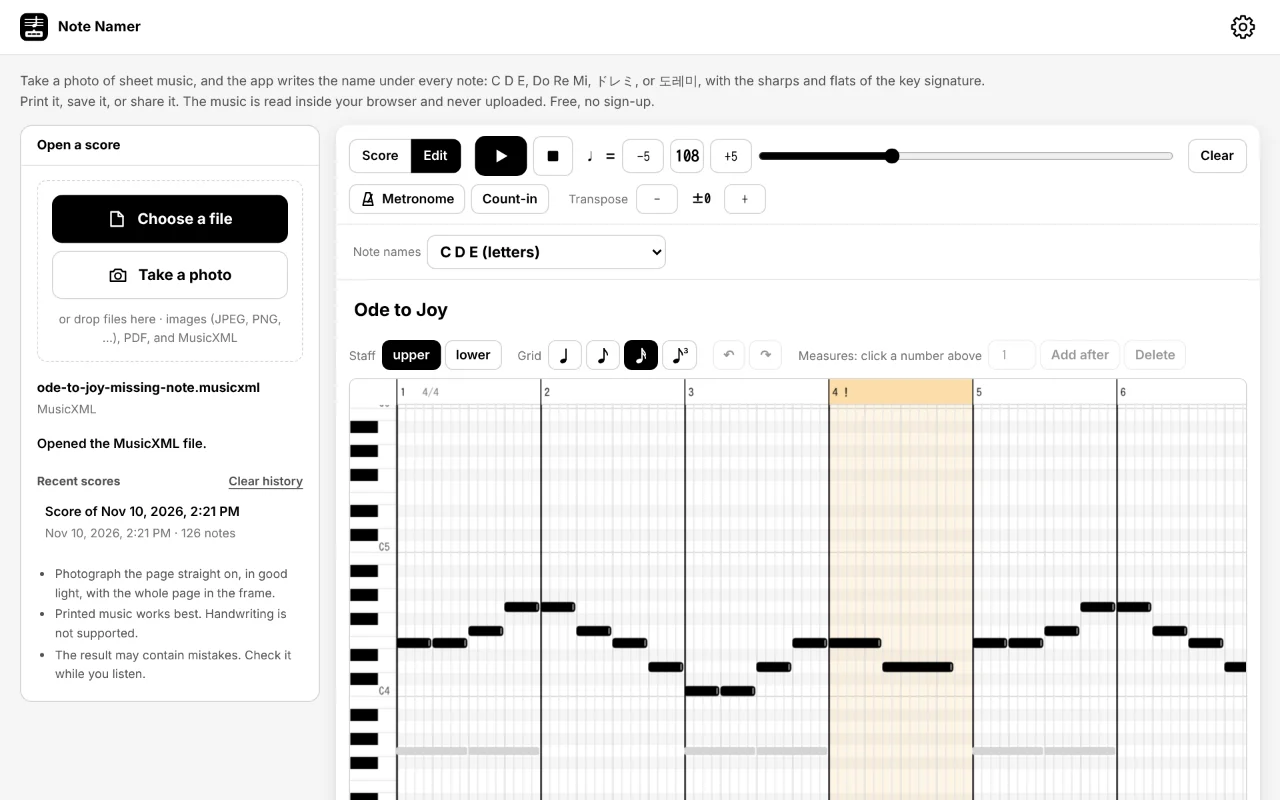
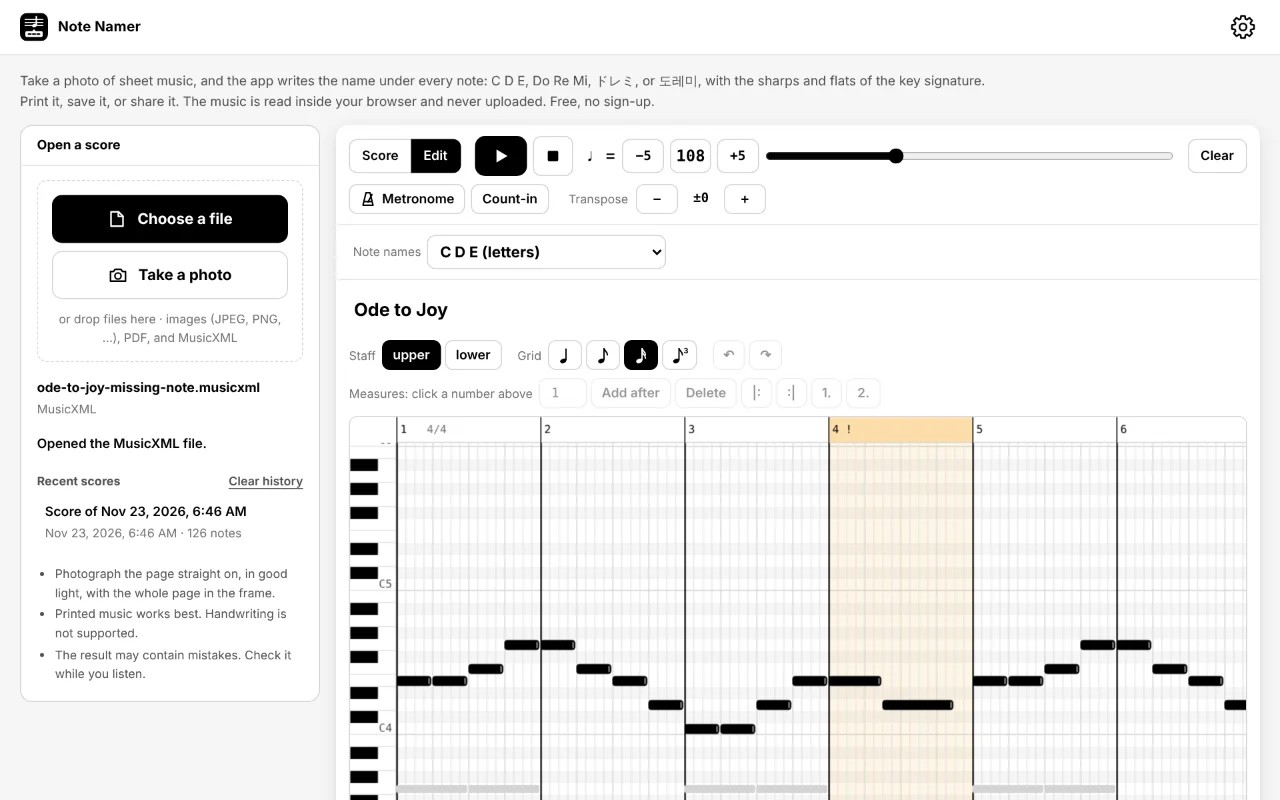
編集画面で繰り返し記号と 1番／2番かっこを付けられるように (#12)
* 繰り返し記号・1番／2番かっこを正しくたどる

- 読み取り結果の繰り返し記号を直す（fixRepeats）。homr 0.7.0 は始まりの |: を右の小節線に
  書くため :| で曲の先頭に戻っていた。:| の直後に 1番かっこの終わりだけの空の小節ができる
  （大譜表では上下の譜表で小節がずれる）のを消し、1番／2番かっこの範囲と番号を書き直す。
- 小節の一覧を繰り返しを展開した弾く順で作る（メトロノーム・カウントイン・ループが
  繰り返しのある曲でずれていた）。カーソルは繰り返しの飛び先へ滑らせずに移る。

Claude-Session: https://claude.ai/code/session_01FBcjAfogz4PzKhP6gVseSj

* 編集画面で繰り返し記号と 1番／2番かっこを付けられるように

SheetMusicPlayer と同じ変更の移植。homr は 1番／2番かっこをよく読み落とし、
繰り返しのあとも 1番かっこを弾いていた（写真の楽譜で確認）。推測はせず、
- 編集画面で小節番号を選んで |:・:|・1.・2. を付け外しできるようにする
- 読み取り結果に繰り返し記号があるときは、かっこを確かめるよう案内する
- 記事（fix-errors）と編集画面の写真を直す

Claude-Session: https://claude.ai/code/session_01FBcjAfogz4PzKhP6gVseSj

---------

diff --git a/public/notenamer/ja/index.html b/public/notenamer/ja/index.html
@@ -540,7 +540,7 @@
         <li><b>読み取りを待つ</b> – 初回は読み取りエンジン（約130MB）をダウンロードします。読み取りには、端末の性能によって1ページ10秒〜1分ほどかかります。</li>
         <li><b>音名</b> – すべての音符の下に音名を書きます。調号や臨時記号の ♯・♭ も反映します。楽譜の上で、書き方（ドレミ・C D E・Do Re Mi・도레미・ドイツ式・До Ре Ми、または移動ド・数字譜・Sa Re Ga）を選べます。和音は上の音から順に縦に並べ、タイでつながった後ろの音には書きません。</li>
         <li><b>聞いて確かめる</b> – ▶ を押すと、青いカーソルが五線の上を進みながら音が鳴ります。❚❚ で一時停止、■ で止めて最初に戻ります。音符をクリックするとカーソルがそこに移ります。テンポは −5／+5、数字、スライダーで変えられます。</li>
-        <li><b>間違いを直す</b> – 「編集」に切り替えると、音符が四角で表示されます。上下にドラッグで音の高さ、左右で位置、右端をドラッグで長さを変え、空いている所をクリックで追加、右クリックで削除できます。「楽譜」に戻ると、直した内容で五線譜と音名が描き直されます。</li>
+        <li><b>間違いを直す</b> – 「編集」に切り替えると、音符が四角で表示されます。上下にドラッグで音の高さ、左右で位置、右端をドラッグで長さを変え、空いている所をクリックで追加、右クリックで削除できます。小節番号をクリックすると、小節の追加・削除と、繰り返し記号・1番／2番かっこの設定もできます。「楽譜」に戻ると、直した内容で五線譜と音名が描き直されます。</li>
         <li><b>メトロノーム・カウントイン・移調</b> – テンポの下のボタンで、メトロノームとカウントイン、半音ずつの移調ができます。音名も移調した高さで書きます。</li>
         <li><b>印刷・保存・共有</b> – 楽譜の下の「印刷」（A4 のページ）、「画像を保存」（ページごとの PNG）、「共有」（スマホの共有メニューで画像を送る）。音名入りの MusicXML も保存できます。各ページの下には小さく「Note Namer で作成」と入ります（同じ場所のチェックで外せます）。最近開いた 10 曲は「最近の楽譜」に残ります。</li></ol>
       <p class="help-more" data-i18n-html="help.more">詳しくは：<a href="/notenamer/ja/guide/" target="_blank" rel="noopener">画面つきの使い方ガイド</a>・<a href="/notenamer/ja/photo-tips/" target="_blank" rel="noopener">撮り方のコツ</a>・<a href="/notenamer/ja/fix-errors/" target="_blank" rel="noopener">読み取りミスの直し方</a>・<a href="/notenamer/ja/faq/" target="_blank" rel="noopener">よくある質問</a></p>
@@ -655,7 +655,7 @@
           "mode.score": "Score",
           "mode.edit": "Edit",
           "ed.area": "Note editor. Drag a note to move it, drag its right edge to change its length.",
-          "ed.hint": "<b>Drag</b> a note to move it (up/down: pitch, left/right: timing) · drag its <b>right edge</b> to change the length · <b>click</b> an empty spot to add a note · <b>right-click</b> or <b>Delete</b> to remove · <b>drag</b> on empty space to select several · <b>↑↓</b> pitch (Shift: octave) · <b>←→</b> move · <b>Ctrl+Z</b> undo · <b>wheel</b> scroll (Shift: sideways), <b>Ctrl+wheel</b> or <b>+ −</b> zoom. On a touch screen: <b>drag</b> an empty spot to scroll, <b>pinch</b> to zoom, <b>hold</b> then drag to select several. Tap a measure number to add or delete measures (tap anywhere else to deselect it). Measures marked <b>!</b> did not add up when read; check them first.",
+          "ed.hint": "<b>Drag</b> a note to move it (up/down: pitch, left/right: timing) · drag its <b>right edge</b> to change the length · <b>click</b> an empty spot to add a note · <b>right-click</b> or <b>Delete</b> to remove · <b>drag</b> on empty space to select several · <b>↑↓</b> pitch (Shift: octave) · <b>←→</b> move · <b>Ctrl+Z</b> undo · <b>wheel</b> scroll (Shift: sideways), <b>Ctrl+wheel</b> or <b>+ −</b> zoom. On a touch screen: <b>drag</b> an empty spot to scroll, <b>pinch</b> to zoom, <b>hold</b> then drag to select several. Tap a measure number to add or delete measures, or to set repeat signs (|: :|) and 1st / 2nd endings (tap anywhere else to deselect it). Measures marked <b>!</b> did not add up when read; check them first.",
           "ed.track": "Staff",
           "ed.grid": "Grid",
           "ed.grid.24": "Quarter notes",
@@ -670,6 +670,10 @@
           "ed.measCount": "Number of measures to add",
           "ed.measAdd": "Add after",
           "ed.measDel": "Delete",
+          "ed.repStart": "Start repeat (|:)",
+          "ed.repEnd": "End repeat (:|)",
+          "ed.ending1": "1st ending",
+          "ed.ending2": "2nd ending",
           "track.part": "Part {n}",
           "track.upper": "upper",
           "track.lower": "lower",
@@ -702,6 +706,7 @@
           "err.pdf": "This PDF cannot be opened. It may be damaged or protected with a password.",
           "err.nostaff": "No staves or notes were found. Use a clear photo or scan of printed sheet music, with the whole page in the frame.",
           "err.nostaff.page": "No staves were found on page {i}, so it was skipped.",
+          "warn.repeats": "The score has repeat signs. 1st and 2nd endings are often missed when reading: if a repeat plays the wrong measures, set them in “Edit” (tap a measure number).",
           "err.unsupported": "This browser cannot run the reading engine. Use the latest Chrome or Edge on a computer, the latest Chrome on Android, or Safari on an iPhone updated to iOS 27.2 or later. (Firefox may work once updated to the latest version.)",
           "err.download": "The reading engine could not be downloaded. Check your connection and try again.",
           "err.memory": "The browser ran out of memory. Close other tabs, or try a smaller image or fewer pages. ({msg})",
@@ -812,7 +817,7 @@
           "mode.score": "楽譜",
           "mode.edit": "編集",
           "ed.area": "音符の編集。音符をドラッグで移動、右端をドラッグで長さを変更。",
-          "ed.hint": "音符を<b>ドラッグ</b>で移動（上下で音の高さ、左右でタイミング）・<b>右端をドラッグ</b>で長さ・空いている所を<b>クリック</b>で追加・<b>右クリック</b>か <b>Delete</b> で削除・空いている所を<b>ドラッグ</b>でまとめて選択・<b>↑↓</b> 音の高さ（Shift でオクターブ）・<b>←→</b> 移動・<b>Ctrl+Z</b> 元に戻す・<b>ホイール</b>でスクロール（Shift で横）、<b>Ctrl+ホイール</b>か <b>+ −</b> で拡大・縮小。タッチ操作では、空いている所を<b>ドラッグ</b>でスクロール、<b>ピンチ</b>で拡大・縮小、<b>長押し</b>してからドラッグでまとめて選択。上の小節番号をタップすると、小節の追加・削除ができます（ほかの所をタップすると選択を外します）。<b>!</b> の付いた小節は、読み取ったときに拍の合計が合わなかった小節です。先に確かめてください。",
+          "ed.hint": "音符を<b>ドラッグ</b>で移動（上下で音の高さ、左右でタイミング）・<b>右端をドラッグ</b>で長さ・空いている所を<b>クリック</b>で追加・<b>右クリック</b>か <b>Delete</b> で削除・空いている所を<b>ドラッグ</b>でまとめて選択・<b>↑↓</b> 音の高さ（Shift でオクターブ）・<b>←→</b> 移動・<b>Ctrl+Z</b> 元に戻す・<b>ホイール</b>でスクロール（Shift で横）、<b>Ctrl+ホイール</b>か <b>+ −</b> で拡大・縮小。タッチ操作では、空いている所を<b>ドラッグ</b>でスクロール、<b>ピンチ</b>で拡大・縮小、<b>長押し</b>してからドラッグでまとめて選択。上の小節番号をタップすると、小節の追加・削除と、繰り返し記号（|: :|）・1番／2番かっこの設定ができます（ほかの所をタップすると選択を外します）。<b>!</b> の付いた小節は、読み取ったときに拍の合計が合わなかった小節です。先に確かめてください。",
           "ed.track": "段",
           "ed.grid": "マス目",
           "ed.grid.24": "4分音符",
@@ -827,6 +832,10 @@
           "ed.measCount": "追加する小節の数",
           "ed.measAdd": "後ろに追加",
           "ed.measDel": "削除",
+          "ed.repStart": "繰り返しの始まり（|:）",
+          "ed.repEnd": "繰り返しの終わり（:|）",
+          "ed.ending1": "1番かっこ",
+          "ed.ending2": "2番かっこ",
           "track.part": "パート{n}",
           "track.upper": "上段",
           "track.lower": "下段",
@@ -859,6 +868,7 @@
           "err.pdf": "このPDFを開けません。壊れているか、パスワードで保護されている可能性があります。",
           "err.nostaff": "五線や音符が見つかりませんでした。印刷された楽譜を、ページ全体が入るように、はっきり撮った写真やスキャンでお試しください。",
           "err.nostaff.page": "{i}ページ目には五線が見つからなかったので、飛ばしました。",
+          "warn.repeats": "繰り返し記号があります。1番・2番かっこは読み取れないことが多いので、繰り返しで違う小節が鳴るときは「編集」で付けてください（小節番号をタップ）。",
           "err.unsupported": "このブラウザでは読み取りエンジンを動かせません。PCの最新のChromeかEdge、Androidの最新のChrome、またはiOS 27.2以降に更新したiPhoneのSafariでお試しください。（Firefoxは、最新版に更新すると動く場合があります）",
           "err.download": "読み取りエンジンをダウンロードできませんでした。接続を確認して、もう一度お試しください。",
           "err.memory": "ブラウザのメモリが足りなくなりました。ほかのタブを閉じるか、小さい画像やページ数の少ないファイルでお試しください。（{msg}）",
@@ -892,7 +902,7 @@
           "foot.meta": "<span>Note Namer · © 2026 ktkwmr</span>\n<a href=\"/notenamer/ja/privacy/\" target=\"_blank\" rel=\"noopener\">プライバシーポリシー</a>\n<a href=\"/notenamer/ja/about/\" target=\"_blank\" rel=\"noopener\">運営者情報</a>\n<a href=\"https://github.com/ktkwmr/NoteNamer\" target=\"_blank\" rel=\"noopener\">GitHub のソースコード</a>\n<a href=\"https://github.com/ktkwmr/NoteNamer/issues\" target=\"_blank\" rel=\"noopener\">ご意見・ご質問</a>\n<a href=\"https://ktkwmr.com/ja/\" target=\"_blank\" rel=\"noopener\">ktkwmr のほかのアプリ</a>",
           "foot.guidesTitle": "ガイド",
           "foot.guides": "<li><a href=\"/notenamer/ja/guide/\" target=\"_blank\" rel=\"noopener\">使い方ガイド</a></li>\n<li><a href=\"/notenamer/ja/note-name-chart/\" target=\"_blank\" rel=\"noopener\">音名の対応表</a></li>\n<li><a href=\"/notenamer/ja/reading-notes/\" target=\"_blank\" rel=\"noopener\">五線譜の音の読み方</a></li>\n<li><a href=\"/notenamer/ja/sharps-and-flats/\" target=\"_blank\" rel=\"noopener\">♯・♭と調号の読み方</a></li>\n<li><a href=\"/notenamer/ja/faq/\" target=\"_blank\" rel=\"noopener\">よくある質問</a></li>\n<li><a href=\"/notenamer/ja/photo-tips/\" target=\"_blank\" rel=\"noopener\">楽譜の撮り方のコツ</a></li>\n<li><a href=\"/notenamer/ja/fix-errors/\" target=\"_blank\" rel=\"noopener\">読み取りミスの直し方</a></li>",
-          "help.body": "<li><b>楽譜を開く</b> – 写真を撮るか、画像やPDFを選んで（左のパネルにドロップしても可）「楽譜を読み取る」を押します。ファイルは12個まで追加でき、並んだ順に1つの楽譜として読み取ります（ハンドルをドラッグすると順番を変えられます）。MusicXML はすぐに開きます。楽譜を開いていないときは、見本（歓喜の歌）を表示します。</li>\n        <li><b>読み取りを待つ</b> – 初回は読み取りエンジン（約130MB）をダウンロードします。読み取りには、端末の性能によって1ページ10秒〜1分ほどかかります。</li>\n        <li><b>音名</b> – すべての音符の下に音名を書きます。調号や臨時記号の ♯・♭ も反映します。楽譜の上で、書き方（ドレミ・C D E・Do Re Mi・도레미・ドイツ式・До Ре Ми、または移動ド・数字譜・Sa Re Ga）を選べます。和音は上の音から順に縦に並べ、タイでつながった後ろの音には書きません。</li>\n        <li><b>聞いて確かめる</b> – ▶ を押すと、青いカーソルが五線の上を進みながら音が鳴ります。❚❚ で一時停止、■ で止めて最初に戻ります。音符をクリックするとカーソルがそこに移ります。テンポは −5／+5、数字、スライダーで変えられます。</li>\n        <li><b>間違いを直す</b> – 「編集」に切り替えると、音符が四角で表示されます。上下にドラッグで音の高さ、左右で位置、右端をドラッグで長さを変え、空いている所をクリックで追加、右クリックで削除できます。「楽譜」に戻ると、直した内容で五線譜と音名が描き直されます。</li>\n        <li><b>メトロノーム・カウントイン・移調</b> – テンポの下のボタンで、メトロノームとカウントイン、半音ずつの移調ができます。音名も移調した高さで書きます。</li>\n        <li><b>印刷・保存・共有</b> – 楽譜の下の「印刷」（A4 のページ）、「画像を保存」（ページごとの PNG）、「共有」（スマホの共有メニューで画像を送る）。音名入りの MusicXML も保存できます。各ページの下には小さく「Note Namer で作成」と入ります（同じ場所のチェックで外せます）。最近開いた 10 曲は「最近の楽譜」に残ります。</li>",
+          "help.body": "<li><b>楽譜を開く</b> – 写真を撮るか、画像やPDFを選んで（左のパネルにドロップしても可）「楽譜を読み取る」を押します。ファイルは12個まで追加でき、並んだ順に1つの楽譜として読み取ります（ハンドルをドラッグすると順番を変えられます）。MusicXML はすぐに開きます。楽譜を開いていないときは、見本（歓喜の歌）を表示します。</li>\n        <li><b>読み取りを待つ</b> – 初回は読み取りエンジン（約130MB）をダウンロードします。読み取りには、端末の性能によって1ページ10秒〜1分ほどかかります。</li>\n        <li><b>音名</b> – すべての音符の下に音名を書きます。調号や臨時記号の ♯・♭ も反映します。楽譜の上で、書き方（ドレミ・C D E・Do Re Mi・도레미・ドイツ式・До Ре Ми、または移動ド・数字譜・Sa Re Ga）を選べます。和音は上の音から順に縦に並べ、タイでつながった後ろの音には書きません。</li>\n        <li><b>聞いて確かめる</b> – ▶ を押すと、青いカーソルが五線の上を進みながら音が鳴ります。❚❚ で一時停止、■ で止めて最初に戻ります。音符をクリックするとカーソルがそこに移ります。テンポは −5／+5、数字、スライダーで変えられます。</li>\n        <li><b>間違いを直す</b> – 「編集」に切り替えると、音符が四角で表示されます。上下にドラッグで音の高さ、左右で位置、右端をドラッグで長さを変え、空いている所をクリックで追加、右クリックで削除できます。小節番号をクリックすると、小節の追加・削除と、繰り返し記号・1番／2番かっこの設定もできます。「楽譜」に戻ると、直した内容で五線譜と音名が描き直されます。</li>\n        <li><b>メトロノーム・カウントイン・移調</b> – テンポの下のボタンで、メトロノームとカウントイン、半音ずつの移調ができます。音名も移調した高さで書きます。</li>\n        <li><b>印刷・保存・共有</b> – 楽譜の下の「印刷」（A4 のページ）、「画像を保存」（ページごとの PNG）、「共有」（スマホの共有メニューで画像を送る）。音名入りの MusicXML も保存できます。各ページの下には小さく「Note Namer で作成」と入ります（同じ場所のチェックで外せます）。最近開いた 10 曲は「最近の楽譜」に残ります。</li>",
           "help.more": "詳しくは：<a href=\"/notenamer/ja/guide/\" target=\"_blank\" rel=\"noopener\">画面つきの使い方ガイド</a>・<a href=\"/notenamer/ja/photo-tips/\" target=\"_blank\" rel=\"noopener\">撮り方のコツ</a>・<a href=\"/notenamer/ja/fix-errors/\" target=\"_blank\" rel=\"noopener\">読み取りミスの直し方</a>・<a href=\"/notenamer/ja/faq/\" target=\"_blank\" rel=\"noopener\">よくある質問</a>",
           "privacy.body": "<li><b>楽譜は端末の外に出ません</b> – 開いた写真・画像・PDFは、ブラウザの中だけで読み取り、サーバーに送ることはありません。カメラで撮った写真も保存しません。アカウント登録・Cookie・広告はありません。</li>\n        <li><b>ブラウザに保存するデータ</b> – もう一度開けるよう、最近開いた楽譜（読み取った音符のMusicXML）を最大10曲まで、タイトル・ファイル名・テンポ・移調の設定と一緒にブラウザ内に保存します。「履歴を消去」で消せます。オフラインで使えるよう、アプリ本体と読み取りエンジンも保存します。ブラウザの設定でこのサイトのデータを削除すると消えます。</li>\n        <li><b>サーバーのログと閲覧数</b> – 本サイトは Cloudflare で配信しています。運用とセキュリティのため、一般的なアクセスログ（IP アドレス・日時・アクセスしたページやファイルなど）が記録されます。Cloudflare Web Analytics で、Cookie を使わずにページの閲覧数（ページの URL・参照元・ブラウザの情報・表示速度）を集計しています。</li>\n        <li><b>お問い合わせ</b> – ご質問・ご意見は <a href=\"https://github.com/ktkwmr/NoteNamer/issues\" target=\"_blank\" rel=\"noopener\">GitHub の Issues</a> へ。</li>\n        <li><b>詳しくは</b> – <a href=\"/notenamer/ja/privacy/\" target=\"_blank\" rel=\"noopener\">プライバシーポリシー</a>と<a href=\"/notenamer/ja/about/\" target=\"_blank\" rel=\"noopener\">運営者情報</a>をご覧ください。</li>",
           "about.license": "© 2026 ktkwmr · <a href=\"https://github.com/ktkwmr/NoteNamer/blob/main/LICENSE\" target=\"_blank\" rel=\"noopener\">GNU AGPL v3</a>（使用している楽譜認識 homr と同じライセンス）· <a href=\"/notenamer/ja/about/\" target=\"_blank\" rel=\"noopener\">運営者情報</a>",
@@ -1779,7 +1789,10 @@
           saveState();
           const secs = Math.round((performance.now() - t0) / 1000);
           showStatus(n > 1 ? t("st.done.pages", { n: xmls.length, s: secs }) : t("st.done", { s: secs }), { bar: false });
-          if (skipped.length) { $("pageWarn").textContent = skipped.map((i) => t("err.nostaff.page", { i: i })).join(" "); $("pageWarn").hidden = false; }
+          // Repeats: the reader often misses the 1st / 2nd endings, which then play every time
+          const warns = skipped.map((i) => t("err.nostaff.page", { i: i }));
+          if (/<repeat /.test(xml)) warns.push(t("warn.repeats"));
+          if (warns.length) { $("pageWarn").textContent = warns.join(" "); $("pageWarn").hidden = false; }
           // Read: the next files chosen make a new score
           done = true;
           clearQueue();

diff --git a/public/notenamer/index.html b/public/notenamer/index.html
@@ -545,7 +545,7 @@
         <li><b>Wait for the reading</b> – The first time, the reading engine is downloaded (about 130 MB). Reading takes from about ten seconds to a minute per page, depending on your computer.</li>
         <li><b>Play</b> – Press ▶. A blue cursor moves along the staff with the music; ❚❚ pauses, and ■ stops and goes back to the beginning. Click a note to move the cursor there; playing starts from it.</li>
         <li><b>Tempo</b> – The tempo starts at the marking found on the page (♩ = 120 when there is none). Change it with −5 / +5, the number, or the slider, even while playing.</li>
-        <li><b>Fix mistakes</b> – Switch to “Edit”. Each note is a box: drag it up or down to change the pitch, sideways to move it, drag its right edge to change the length, click an empty spot to add a note, and right-click to delete. Click a measure number to add or delete measures. Back in “Score”, the staff is redrawn with your changes.</li>
+        <li><b>Fix mistakes</b> – Switch to “Edit”. Each note is a box: drag it up or down to change the pitch, sideways to move it, drag its right edge to change the length, click an empty spot to add a note, and right-click to delete. Click a measure number to add or delete measures, or to set repeat signs and 1st / 2nd endings. Back in “Score”, the staff is redrawn with your changes.</li>
         <li><b>Metronome, count-in, transpose</b> – The buttons under the tempo add a metronome or a count-in, and transpose by semitones. The names follow the transposition.</li>
         <li><b>Print, save, share</b> – Under the score: Print (A4 pages), Save image (a PNG for each page), and Share (the images, through your phone's share menu). You can also save a MusicXML file with the names. A small “Made with Note Namer” line goes under each page unless you turn it off there. The last 10 scores are kept under “Recent scores”.</li>
       </ol>
@@ -663,7 +663,7 @@
           "mode.score": "Score",
           "mode.edit": "Edit",
           "ed.area": "Note editor. Drag a note to move it, drag its right edge to change its length.",
-          "ed.hint": "<b>Drag</b> a note to move it (up/down: pitch, left/right: timing) · drag its <b>right edge</b> to change the length · <b>click</b> an empty spot to add a note · <b>right-click</b> or <b>Delete</b> to remove · <b>drag</b> on empty space to select several · <b>↑↓</b> pitch (Shift: octave) · <b>←→</b> move · <b>Ctrl+Z</b> undo · <b>wheel</b> scroll (Shift: sideways), <b>Ctrl+wheel</b> or <b>+ −</b> zoom. On a touch screen: <b>drag</b> an empty spot to scroll, <b>pinch</b> to zoom, <b>hold</b> then drag to select several. Tap a measure number to add or delete measures (tap anywhere else to deselect it). Measures marked <b>!</b> did not add up when read; check them first.",
+          "ed.hint": "<b>Drag</b> a note to move it (up/down: pitch, left/right: timing) · drag its <b>right edge</b> to change the length · <b>click</b> an empty spot to add a note · <b>right-click</b> or <b>Delete</b> to remove · <b>drag</b> on empty space to select several · <b>↑↓</b> pitch (Shift: octave) · <b>←→</b> move · <b>Ctrl+Z</b> undo · <b>wheel</b> scroll (Shift: sideways), <b>Ctrl+wheel</b> or <b>+ −</b> zoom. On a touch screen: <b>drag</b> an empty spot to scroll, <b>pinch</b> to zoom, <b>hold</b> then drag to select several. Tap a measure number to add or delete measures, or to set repeat signs (|: :|) and 1st / 2nd endings (tap anywhere else to deselect it). Measures marked <b>!</b> did not add up when read; check them first.",
           "ed.track": "Staff",
           "ed.grid": "Grid",
           "ed.grid.24": "Quarter notes",
@@ -678,6 +678,10 @@
           "ed.measCount": "Number of measures to add",
           "ed.measAdd": "Add after",
           "ed.measDel": "Delete",
+          "ed.repStart": "Start repeat (|:)",
+          "ed.repEnd": "End repeat (:|)",
+          "ed.ending1": "1st ending",
+          "ed.ending2": "2nd ending",
           "track.part": "Part {n}",
           "track.upper": "upper",
           "track.lower": "lower",
@@ -710,6 +714,7 @@
           "err.pdf": "This PDF cannot be opened. It may be damaged or protected with a password.",
           "err.nostaff": "No staves or notes were found. Use a clear photo or scan of printed sheet music, with the whole page in the frame.",
           "err.nostaff.page": "No staves were found on page {i}, so it was skipped.",
+          "warn.repeats": "The score has repeat signs. 1st and 2nd endings are often missed when reading: if a repeat plays the wrong measures, set them in “Edit” (tap a measure number).",
           "err.unsupported": "This browser cannot run the reading engine. Use the latest Chrome or Edge on a computer, the latest Chrome on Android, or Safari on an iPhone updated to iOS 27.2 or later. (Firefox may work once updated to the latest version.)",
           "err.download": "The reading engine could not be downloaded. Check your connection and try again.",
           "err.memory": "The browser ran out of memory. Close other tabs, or try a smaller image or fewer pages. ({msg})",
@@ -820,7 +825,7 @@
           "mode.score": "楽譜",
           "mode.edit": "編集",
           "ed.area": "音符の編集。音符をドラッグで移動、右端をドラッグで長さを変更。",
-          "ed.hint": "音符を<b>ドラッグ</b>で移動（上下で音の高さ、左右でタイミング）・<b>右端をドラッグ</b>で長さ・空いている所を<b>クリック</b>で追加・<b>右クリック</b>か <b>Delete</b> で削除・空いている所を<b>ドラッグ</b>でまとめて選択・<b>↑↓</b> 音の高さ（Shift でオクターブ）・<b>←→</b> 移動・<b>Ctrl+Z</b> 元に戻す・<b>ホイール</b>でスクロール（Shift で横）、<b>Ctrl+ホイール</b>か <b>+ −</b> で拡大・縮小。タッチ操作では、空いている所を<b>ドラッグ</b>でスクロール、<b>ピンチ</b>で拡大・縮小、<b>長押し</b>してからドラッグでまとめて選択。上の小節番号をタップすると、小節の追加・削除ができます（ほかの所をタップすると選択を外します）。<b>!</b> の付いた小節は、読み取ったときに拍の合計が合わなかった小節です。先に確かめてください。",
+          "ed.hint": "音符を<b>ドラッグ</b>で移動（上下で音の高さ、左右でタイミング）・<b>右端をドラッグ</b>で長さ・空いている所を<b>クリック</b>で追加・<b>右クリック</b>か <b>Delete</b> で削除・空いている所を<b>ドラッグ</b>でまとめて選択・<b>↑↓</b> 音の高さ（Shift でオクターブ）・<b>←→</b> 移動・<b>Ctrl+Z</b> 元に戻す・<b>ホイール</b>でスクロール（Shift で横）、<b>Ctrl+ホイール</b>か <b>+ −</b> で拡大・縮小。タッチ操作では、空いている所を<b>ドラッグ</b>でスクロール、<b>ピンチ</b>で拡大・縮小、<b>長押し</b>してからドラッグでまとめて選択。上の小節番号をタップすると、小節の追加・削除と、繰り返し記号（|: :|）・1番／2番かっこの設定ができます（ほかの所をタップすると選択を外します）。<b>!</b> の付いた小節は、読み取ったときに拍の合計が合わなかった小節です。先に確かめてください。",
           "ed.track": "段",
           "ed.grid": "マス目",
           "ed.grid.24": "4分音符",
@@ -835,6 +840,10 @@
           "ed.measCount": "追加する小節の数",
           "ed.measAdd": "後ろに追加",
           "ed.measDel": "削除",
+          "ed.repStart": "繰り返しの始まり（|:）",
+          "ed.repEnd": "繰り返しの終わり（:|）",
+          "ed.ending1": "1番かっこ",
+          "ed.ending2": "2番かっこ",
           "track.part": "パート{n}",
           "track.upper": "上段",
           "track.lower": "下段",
@@ -867,6 +876,7 @@
           "err.pdf": "このPDFを開けません。壊れているか、パスワードで保護されている可能性があります。",
           "err.nostaff": "五線や音符が見つかりませんでした。印刷された楽譜を、ページ全体が入るように、はっきり撮った写真やスキャンでお試しください。",
           "err.nostaff.page": "{i}ページ目には五線が見つからなかったので、飛ばしました。",
+          "warn.repeats": "繰り返し記号があります。1番・2番かっこは読み取れないことが多いので、繰り返しで違う小節が鳴るときは「編集」で付けてください（小節番号をタップ）。",
           "err.unsupported": "このブラウザでは読み取りエンジンを動かせません。PCの最新のChromeかEdge、Androidの最新のChrome、またはiOS 27.2以降に更新したiPhoneのSafariでお試しください。（Firefoxは、最新版に更新すると動く場合があります）",
           "err.download": "読み取りエンジンをダウンロードできませんでした。接続を確認して、もう一度お試しください。",
           "err.memory": "ブラウザのメモリが足りなくなりました。ほかのタブを閉じるか、小さい画像やページ数の少ないファイルでお試しください。（{msg}）",
@@ -900,7 +910,7 @@
           "foot.meta": "<span>Note Namer · © 2026 ktkwmr</span>\n<a href=\"/notenamer/ja/privacy/\" target=\"_blank\" rel=\"noopener\">プライバシーポリシー</a>\n<a href=\"/notenamer/ja/about/\" target=\"_blank\" rel=\"noopener\">運営者情報</a>\n<a href=\"https://github.com/ktkwmr/NoteNamer\" target=\"_blank\" rel=\"noopener\">GitHub のソースコード</a>\n<a href=\"https://github.com/ktkwmr/NoteNamer/issues\" target=\"_blank\" rel=\"noopener\">ご意見・ご質問</a>\n<a href=\"https://ktkwmr.com/ja/\" target=\"_blank\" rel=\"noopener\">ktkwmr のほかのアプリ</a>",
           "foot.guidesTitle": "ガイド",
           "foot.guides": "<li><a href=\"/notenamer/ja/guide/\" target=\"_blank\" rel=\"noopener\">使い方ガイド</a></li>\n<li><a href=\"/notenamer/ja/note-name-chart/\" target=\"_blank\" rel=\"noopener\">音名の対応表</a></li>\n<li><a href=\"/notenamer/ja/reading-notes/\" target=\"_blank\" rel=\"noopener\">五線譜の音の読み方</a></li>\n<li><a href=\"/notenamer/ja/sharps-and-flats/\" target=\"_blank\" rel=\"noopener\">♯・♭と調号の読み方</a></li>\n<li><a href=\"/notenamer/ja/faq/\" target=\"_blank\" rel=\"noopener\">よくある質問</a></li>\n<li><a href=\"/notenamer/ja/photo-tips/\" target=\"_blank\" rel=\"noopener\">楽譜の撮り方のコツ</a></li>\n<li><a href=\"/notenamer/ja/fix-errors/\" target=\"_blank\" rel=\"noopener\">読み取りミスの直し方</a></li>",
-          "help.body": "<li><b>楽譜を開く</b> – 写真を撮るか、画像やPDFを選んで（左のパネルにドロップしても可）「楽譜を読み取る」を押します。ファイルは12個まで追加でき、並んだ順に1つの楽譜として読み取ります（ハンドルをドラッグすると順番を変えられます）。MusicXML はすぐに開きます。楽譜を開いていないときは、見本（歓喜の歌）を表示します。</li>\n        <li><b>読み取りを待つ</b> – 初回は読み取りエンジン（約130MB）をダウンロードします。読み取りには、端末の性能によって1ページ10秒〜1分ほどかかります。</li>\n        <li><b>音名</b> – すべての音符の下に音名を書きます。調号や臨時記号の ♯・♭ も反映します。楽譜の上で、書き方（ドレミ・C D E・Do Re Mi・도레미・ドイツ式・До Ре Ми、または移動ド・数字譜・Sa Re Ga）を選べます。和音は上の音から順に縦に並べ、タイでつながった後ろの音には書きません。</li>\n        <li><b>聞いて確かめる</b> – ▶ を押すと、青いカーソルが五線の上を進みながら音が鳴ります。❚❚ で一時停止、■ で止めて最初に戻ります。音符をクリックするとカーソルがそこに移ります。テンポは −5／+5、数字、スライダーで変えられます。</li>\n        <li><b>間違いを直す</b> – 「編集」に切り替えると、音符が四角で表示されます。上下にドラッグで音の高さ、左右で位置、右端をドラッグで長さを変え、空いている所をクリックで追加、右クリックで削除できます。「楽譜」に戻ると、直した内容で五線譜と音名が描き直されます。</li>\n        <li><b>メトロノーム・カウントイン・移調</b> – テンポの下のボタンで、メトロノームとカウントイン、半音ずつの移調ができます。音名も移調した高さで書きます。</li>\n        <li><b>印刷・保存・共有</b> – 楽譜の下の「印刷」（A4 のページ）、「画像を保存」（ページごとの PNG）、「共有」（スマホの共有メニューで画像を送る）。音名入りの MusicXML も保存できます。各ページの下には小さく「Note Namer で作成」と入ります（同じ場所のチェックで外せます）。最近開いた 10 曲は「最近の楽譜」に残ります。</li>",
+          "help.body": "<li><b>楽譜を開く</b> – 写真を撮るか、画像やPDFを選んで（左のパネルにドロップしても可）「楽譜を読み取る」を押します。ファイルは12個まで追加でき、並んだ順に1つの楽譜として読み取ります（ハンドルをドラッグすると順番を変えられます）。MusicXML はすぐに開きます。楽譜を開いていないときは、見本（歓喜の歌）を表示します。</li>\n        <li><b>読み取りを待つ</b> – 初回は読み取りエンジン（約130MB）をダウンロードします。読み取りには、端末の性能によって1ページ10秒〜1分ほどかかります。</li>\n        <li><b>音名</b> – すべての音符の下に音名を書きます。調号や臨時記号の ♯・♭ も反映します。楽譜の上で、書き方（ドレミ・C D E・Do Re Mi・도레미・ドイツ式・До Ре Ми、または移動ド・数字譜・Sa Re Ga）を選べます。和音は上の音から順に縦に並べ、タイでつながった後ろの音には書きません。</li>\n        <li><b>聞いて確かめる</b> – ▶ を押すと、青いカーソルが五線の上を進みながら音が鳴ります。❚❚ で一時停止、■ で止めて最初に戻ります。音符をクリックするとカーソルがそこに移ります。テンポは −5／+5、数字、スライダーで変えられます。</li>\n        <li><b>間違いを直す</b> – 「編集」に切り替えると、音符が四角で表示されます。上下にドラッグで音の高さ、左右で位置、右端をドラッグで長さを変え、空いている所をクリックで追加、右クリックで削除できます。小節番号をクリックすると、小節の追加・削除と、繰り返し記号・1番／2番かっこの設定もできます。「楽譜」に戻ると、直した内容で五線譜と音名が描き直されます。</li>\n        <li><b>メトロノーム・カウントイン・移調</b> – テンポの下のボタンで、メトロノームとカウントイン、半音ずつの移調ができます。音名も移調した高さで書きます。</li>\n        <li><b>印刷・保存・共有</b> – 楽譜の下の「印刷」（A4 のページ）、「画像を保存」（ページごとの PNG）、「共有」（スマホの共有メニューで画像を送る）。音名入りの MusicXML も保存できます。各ページの下には小さく「Note Namer で作成」と入ります（同じ場所のチェックで外せます）。最近開いた 10 曲は「最近の楽譜」に残ります。</li>",
           "help.more": "詳しくは：<a href=\"/notenamer/ja/guide/\" target=\"_blank\" rel=\"noopener\">画面つきの使い方ガイド</a>・<a href=\"/notenamer/ja/photo-tips/\" target=\"_blank\" rel=\"noopener\">撮り方のコツ</a>・<a href=\"/notenamer/ja/fix-errors/\" target=\"_blank\" rel=\"noopener\">読み取りミスの直し方</a>・<a href=\"/notenamer/ja/faq/\" target=\"_blank\" rel=\"noopener\">よくある質問</a>",
           "privacy.body": "<li><b>楽譜は端末の外に出ません</b> – 開いた写真・画像・PDFは、ブラウザの中だけで読み取り、サーバーに送ることはありません。カメラで撮った写真も保存しません。アカウント登録・Cookie・広告はありません。</li>\n        <li><b>ブラウザに保存するデータ</b> – もう一度開けるよう、最近開いた楽譜（読み取った音符のMusicXML）を最大10曲まで、タイトル・ファイル名・テンポ・移調の設定と一緒にブラウザ内に保存します。「履歴を消去」で消せます。オフラインで使えるよう、アプリ本体と読み取りエンジンも保存します。ブラウザの設定でこのサイトのデータを削除すると消えます。</li>\n        <li><b>サーバーのログと閲覧数</b> – 本サイトは Cloudflare で配信しています。運用とセキュリティのため、一般的なアクセスログ（IP アドレス・日時・アクセスしたページやファイルなど）が記録されます。Cloudflare Web Analytics で、Cookie を使わずにページの閲覧数（ページの URL・参照元・ブラウザの情報・表示速度）を集計しています。</li>\n        <li><b>お問い合わせ</b> – ご質問・ご意見は <a href=\"https://github.com/ktkwmr/NoteNamer/issues\" target=\"_blank\" rel=\"noopener\">GitHub の Issues</a> へ。</li>\n        <li><b>詳しくは</b> – <a href=\"/notenamer/ja/privacy/\" target=\"_blank\" rel=\"noopener\">プライバシーポリシー</a>と<a href=\"/notenamer/ja/about/\" target=\"_blank\" rel=\"noopener\">運営者情報</a>をご覧ください。</li>",
           "about.license": "© 2026 ktkwmr · <a href=\"https://github.com/ktkwmr/NoteNamer/blob/main/LICENSE\" target=\"_blank\" rel=\"noopener\">GNU AGPL v3</a>（使用している楽譜認識 homr と同じライセンス）· <a href=\"/notenamer/ja/about/\" target=\"_blank\" rel=\"noopener\">運営者情報</a>",
@@ -1787,7 +1797,10 @@
           saveState();
           const secs = Math.round((performance.now() - t0) / 1000);
           showStatus(n > 1 ? t("st.done.pages", { n: xmls.length, s: secs }) : t("st.done", { s: secs }), { bar: false });
-          if (skipped.length) { $("pageWarn").textContent = skipped.map((i) => t("err.nostaff.page", { i: i })).join(" "); $("pageWarn").hidden = false; }
+          // Repeats: the reader often misses the 1st / 2nd endings, which then play every time
+          const warns = skipped.map((i) => t("err.nostaff.page", { i: i }));
+          if (/<repeat /.test(xml)) warns.push(t("warn.repeats"));
+          if (warns.length) { $("pageWarn").textContent = warns.join(" "); $("pageWarn").hidden = false; }
           // Read: the next files chosen make a new score
           done = true;
           clearQueue();

diff --git a/public/notenamer/ja/fix-errors/index.html b/public/notenamer/ja/fix-errors/index.html
@@ -230,6 +230,7 @@
 <tr><th scope="row">まとめて選ぶ</th><td>空いている所をドラッグして囲み、まとめて移動・削除</td></tr>
 <tr><th scope="row">マス目</th><td>4分音符・8分音符・16分音符・3連8分音符から選ぶ</td></tr>
 <tr><th scope="row">小節を追加・削除する</th><td>上の小節番号をクリックし、数を入れて「後ろに追加」、または「削除」。ほかの所をクリックすると小節の選択が外れる</td></tr>
+<tr><th scope="row">繰り返し記号・かっこ</th><td>小節番号をクリックし、<b>|:</b>（繰り返しの始まり）・<b>:|</b>（繰り返しの終わり）・<b>1.</b>・<b>2.</b>（1番かっこ・2番かっこ）。もう一度押すと外れる。何小節もあるかっこは、その小節すべてに付ける</td></tr>
 <tr><th scope="row">スクロール・拡大縮小</th><td>マウス：ホイールでスクロール（<kbd>Shift</kbd> で横）、<kbd>Ctrl</kbd>＋ホイールで横方向に拡大・縮小。タッチ操作：空いている所をドラッグでスクロール、ピンチで拡大・縮小。まとめて選ぶときは少し長押ししてからドラッグ</td></tr>
 <tr><th scope="row">元に戻す・やり直す</th><td>矢印のボタン。または <kbd>Ctrl</kbd>+<kbd>Z</kbd></td></tr>
 </tbody>
@@ -250,6 +251,7 @@
 <tr><th scope="row">音符が足りない・多い</th><td>音の多い和音、紙の汚れを音符と読んだ</td><td>クリックで追加、右クリックで削除</td></tr>
 <tr><th scope="row">長い休みの後で小節が足りない</th><td>複数小節休符（数字の付いた太い横線）を 1 小節として読んだ</td><td>その小節番号をクリックし、足りない数だけ「後ろに追加」</td></tr>
 <tr><th scope="row">1 オクターブずれる</th><td>8va の線や、途中の音部記号の変更の見落とし</td><td>音符を選んで <kbd>Shift</kbd>+<kbd>↑</kbd> か <kbd>↓</kbd></td></tr>
+<tr><th scope="row">繰り返しのあとも 1番かっこを弾く</th><td>1番・2番かっこ（五線の上の細い線）の見落とし</td><td>小節番号をクリックし、<b>1.</b>・<b>2.</b> を付ける</td></tr>
 </tbody>
 </table>
 </div>
@@ -263,7 +265,7 @@
 <p>記号の意味は<a href="/notenamer/ja/sharps-and-flats/">♯・♭と調号の読み方</a>をご覧ください。</p>
 
 <h2 id="limits">編集画面で直せないもの</h2>
-<p>編集画面で直せるのは音符と小節です。調号・拍子記号・音部記号・小節線・繰り返し記号・文字は直せません。これらが違うときは、MusicXML で保存して MuseScore などの楽譜ソフトで直し、直したファイルをこのアプリでもう一度開いてください。歌詞とコードネームは、もともと読み取りません。</p>
+<p>編集画面で直せるのは音符・小節・繰り返し記号・1番／2番かっこです。調号・拍子記号・音部記号・そのほかの小節線・文字は直せません。これらが違うときは、MusicXML で保存して MuseScore などの楽譜ソフトで直し、直したファイルをこのアプリでもう一度開いてください。歌詞とコードネームは、もともと読み取りません。</p>
 
 <h2 id="save">直した楽譜を保存する</h2>
 <p>「楽譜」に戻ったとき（または保存したとき）に、直した内容が楽譜と一緒にブラウザに保存されます。ファイルとして残すときは 楽譜の下の <b>MusicXML（音名入り）で保存</b>を押してください。音符を編集すると、音符から楽譜を作り直すので、スラーやアーティキュレーションなどの記号は保存したファイルに残りません。</p>

diff --git a/public/notenamer/fix-errors/index.html b/public/notenamer/fix-errors/index.html
@@ -230,6 +230,7 @@
 <tr><th scope="row">Select several</th><td>Drag across an empty area, then move or delete them together</td></tr>
 <tr><th scope="row">Snap to</th><td>Grid: quarter, eighth, sixteenth notes, or eighth-note triplets</td></tr>
 <tr><th scope="row">Add or delete measures</th><td>Click a measure number at the top, then “Add after” (with the number of measures) or “Delete”. Click anywhere else to deselect the measure</td></tr>
+<tr><th scope="row">Repeat signs and endings</th><td>Click a measure number, then <b>|:</b> (start of a repeat), <b>:|</b> (end of a repeat), <b>1.</b> or <b>2.</b> (1st or 2nd ending). Click again to remove. For an ending of several measures, mark each of them</td></tr>
 <tr><th scope="row">Scroll and zoom</th><td>Mouse: the wheel scrolls (<kbd>Shift</kbd>: sideways), <kbd>Ctrl</kbd> + wheel zooms in time. Touch screen: drag an empty spot to scroll, pinch to zoom, and hold a moment before dragging to select several</td></tr>
 <tr><th scope="row">Undo / redo</th><td>The arrow buttons, or <kbd>Ctrl</kbd>+<kbd>Z</kbd></td></tr>
 </tbody>
@@ -250,6 +251,7 @@
 <tr><th scope="row">A note is missing or extra</th><td>Notes in a dense chord, or a mark on the paper taken for a note</td><td>Click to add, right-click to delete</td></tr>
 <tr><th scope="row">Too few measures after a long rest</th><td>A multi-measure rest (a thick bar with a number) read as a single measure</td><td>Click that measure's number and “Add after” the missing number of measures</td></tr>
 <tr><th scope="row">One octave off</th><td>An 8va line, or a clef change that was missed</td><td>Select the notes and press <kbd>Shift</kbd>+<kbd>↑</kbd> or <kbd>↓</kbd></td></tr>
+<tr><th scope="row">The 1st ending plays again after the repeat</th><td>The brackets of the 1st and 2nd endings were missed (they are thin lines above the staff)</td><td>Click the measure numbers and mark them <b>1.</b> and <b>2.</b></td></tr>
 </tbody>
 </table>
 </div>
@@ -263,7 +265,7 @@
 <p>See <a href="/notenamer/sharps-and-flats/">sharps, flats, and key signatures</a> for how the signs work.</p>
 
 <h2 id="limits">What the editor cannot change</h2>
-<p>The editor changes notes and measures. It does not change the key signature, the time signature, clefs, bar lines, repeat signs, or text. If those are wrong, save the score as MusicXML, fix them in a notation program such as MuseScore, and open the corrected file in this app again. Lyrics and chord symbols are not read in the first place.</p>
+<p>The editor changes notes, measures, repeat signs, and 1st / 2nd endings. It does not change the key signature, the time signature, clefs, other bar lines, or text. If those are wrong, save the score as MusicXML, fix them in a notation program such as MuseScore, and open the corrected file in this app again. Lyrics and chord symbols are not read in the first place.</p>
 
 <h2 id="save">Save your corrections</h2>
 <p>When you switch back to Score (or save), the corrections are kept in the browser along with the score. To keep a copy as a file, press <b>Save as MusicXML (with note names)</b> under the score. When the notes are edited, the score is rebuilt from the notes, so slurs, articulations, and similar markings are not kept in the saved file.</p>

diff --git a/CLAUDE.md b/CLAUDE.md
@@ -39,12 +39,13 @@
 - Cloudflare Workers の静的アセットは 1 ファイル 25MiB まで。大きいモデルは `build-engine.py` で分割する（`--check` が超過を検出する）。
 - PDF.js は 5.4 系に固定（5.5 以降は現行ブラウザにない `Map.prototype.getOrInsertComputed` を使う）。
 - `public/_headers` の COOP/COEP（cross-origin isolation）は onnxruntime-web を複数スレッドで動かすためのもの。ただし今は `omr-worker.mjs` で 1 スレッドに固定している（複数スレッドだと Pyodide の JSPI 経由の呼び出しで最初のモデル実行が終わらない。検証環境は 2 コアで `hardwareConcurrency - 1` = 1 になり再現しなかったので、スレッド数を変えるときは明示的に 4〜8 を指定して試す）。外部のスクリプトを足すときは CSP に加えて CORS／CORP も確かめる。Tesseract.js のワーカーだけ `unsafe-eval` を許可している（同じファイル内のコメント参照）。
-- 編集機能: `score-model.mjs` が MusicXML ⇄ 音符のリスト（24 tick/4分音符、小節は拍子から決める）を変換し、`editor.mjs` がピアノロールを描く。「楽譜」に戻るか保存するときに `buildXml` で MusicXML を作り直す（ヘッダー・パート・各小節の繰り返し記号と改行は元の XML から引き継ぎ、歌詞・スラー等は消える）。`score-model.mjs` を変えたら `npm test`（`tests/score-model.test.mjs`。「読み込み → 書き出し → 読み込み」で音符が一致するか等）を通し、OSMD で描けることも確かめる。直した不具合や新しい機能にはテストを足す。
+- 編集機能: `score-model.mjs` が MusicXML ⇄ 音符のリスト（24 tick/4分音符、小節は拍子から決める）を変換し、`editor.mjs` がピアノロールを描く。「楽譜」に戻るか保存するときに `buildXml` で MusicXML を作り直す（ヘッダー・パート・各小節の改行と小節線は元の XML から引き継ぎ、繰り返し記号と 1番／2番かっこは model の値で書き直し、歌詞・スラー等は消える）。`score-model.mjs` を変えたら `npm test`（`tests/score-model.test.mjs`。「読み込み → 書き出し → 読み込み」で音符が一致するか等）を通し、OSMD で描けることも確かめる。直した不具合や新しい機能にはテストを足す。
 - homr は複数小節休符をふつうの 1 小節として読むことがある。`expandMultiRests` は `<multiple-rest>` が付いたときだけ小節を増やす。それ以外は編集画面の「小節を追加」で直してもらう。
 - homr の認識モデルにはタイの記号がなく、タイはスラーとして出力される。読み取り結果は `slursToTies`（`score-model.mjs`）で「同じ譜表で隣り合う同じ高さの 2 音を結ぶスラー」をタイに直してから表示・再生する（直さないとタイの先の音符も鳴る）。MusicXML ファイルを開いたときは変換しない。
 - homr はふつうの音符を 3 連符の音符（`<time-modification>` 3:2）として読むことがある（16分音符が 3 連の 16分音符になり、短く鳴る）。homr は 3 連符がそろったときだけ括弧（`<tuplet>`）を付けるので、読み取り結果は `fixStrayTuplets`（`score-model.mjs`）で「足りない小節の、括弧のない連符の音符」を元の長さに戻す。戻して小節がちょうど埋まるときだけ直す。MusicXML ファイルには使わない。
 - homr は大譜表で、もう一方の譜表に戻るときの `<backup>` を書き落とすことがある（低音部の 4分音符の途中から始まる高音部の 8分音符が、その 4分音符のあとに回され、小節線を越えて遅れて鳴る）。1 小節で何か所も落とすことがある。読み取り結果は `fixVoiceOverflow`（`score-model.mjs`）で、声部が小節線を越える小節だけ、「音の長さの合計が小節の長さとちょうど同じ声部」の音符を書かれた順に頭から並べ直し、その小節を時刻順に書き直す（合計が合わない声部は読み違いなのでそのまま）。MusicXML ファイルには使わない。
 - homr 0.7.0 は繰り返し記号・1番／2番かっこを再生ソフトが正しくたどれない形で書く（始まりの `|:` を右の小節線に書くので `:|` で曲の先頭に戻る。`:|` の直後の 1番かっこの終わりを音符のない小節に書き、大譜表では上下のパートで小節がずれる。1番かっこの終わりを読み落とすと 2番かっこも「1」になる）。読み取り結果は `fixRepeats`（`score-model.mjs`）で、`|:` を左の小節線に移し、音符のない小節を消し（小節線の記号は前の小節へ、ほかは次の小節へ。ほかのパートに音符がある 1 小節目は弱起として残す）、かっこを書き直す（`:|` で戻ったかっこのすぐ次のかっこは番号を 1 つ増やす）。新しい homr ではそれぞれ直っている。MusicXML ファイルには使わない。
+- homr は 1番／2番かっこ（五線の上の細い線）をよく読み落とす（写真の楽譜で、`:|` は読めてもかっこが出ず、繰り返しのあとも 1番かっこを弾いた）。`:|` の直後に小節があるだけでは、かっこのないふつうの繰り返しと区別できないので推測はしない。読み取り結果に `<repeat` があるときは案内（`warn.repeats`）を出し、編集画面で小節番号を選んで `|:`・`:|`・`1.`・`2.` を付け外しできる（`model.measures` の `fwd`・`back`・`ending`。`buildXml` の `barlineXml` が元の小節線の記号を外して書き直す）。
 - 再生の時刻は繰り返しを展開した時刻（OSMD のカーソルの `CurrentEnrolledTimestamp`）。小節の一覧（`timeline.measures`、メトロノーム・カウントイン）も弾く順に作り、同じ小節が何度も出る（`m` が楽譜の小節の番号）。
 - `ja/index.html` には `<base href="/notenamer/">` がある。JS で URL を組み立てるときは `location.href` ではなく `document.baseURI` を基準にする（`location.href` だと `/ja/` の下を指して 404 になる）。動的 `import()` も `importApp("x.mjs")`（`document.baseURI` 基準の絶対 URL）を使う。Safari はインラインスクリプトの `import("./x.mjs")` を `<base>` ではなくページの URL から解決するので、日本語ページで 404 になる。
 - Service Worker がエンジンのキャッシュからワーカーのスクリプト（Tesseract.js）を返すときは COEP ヘッダーを付ける（`sw.js` の `withWorkerHeaders`）。付けないと cross-origin isolation のページではワーカーが起動せず、テンポを読めない。
